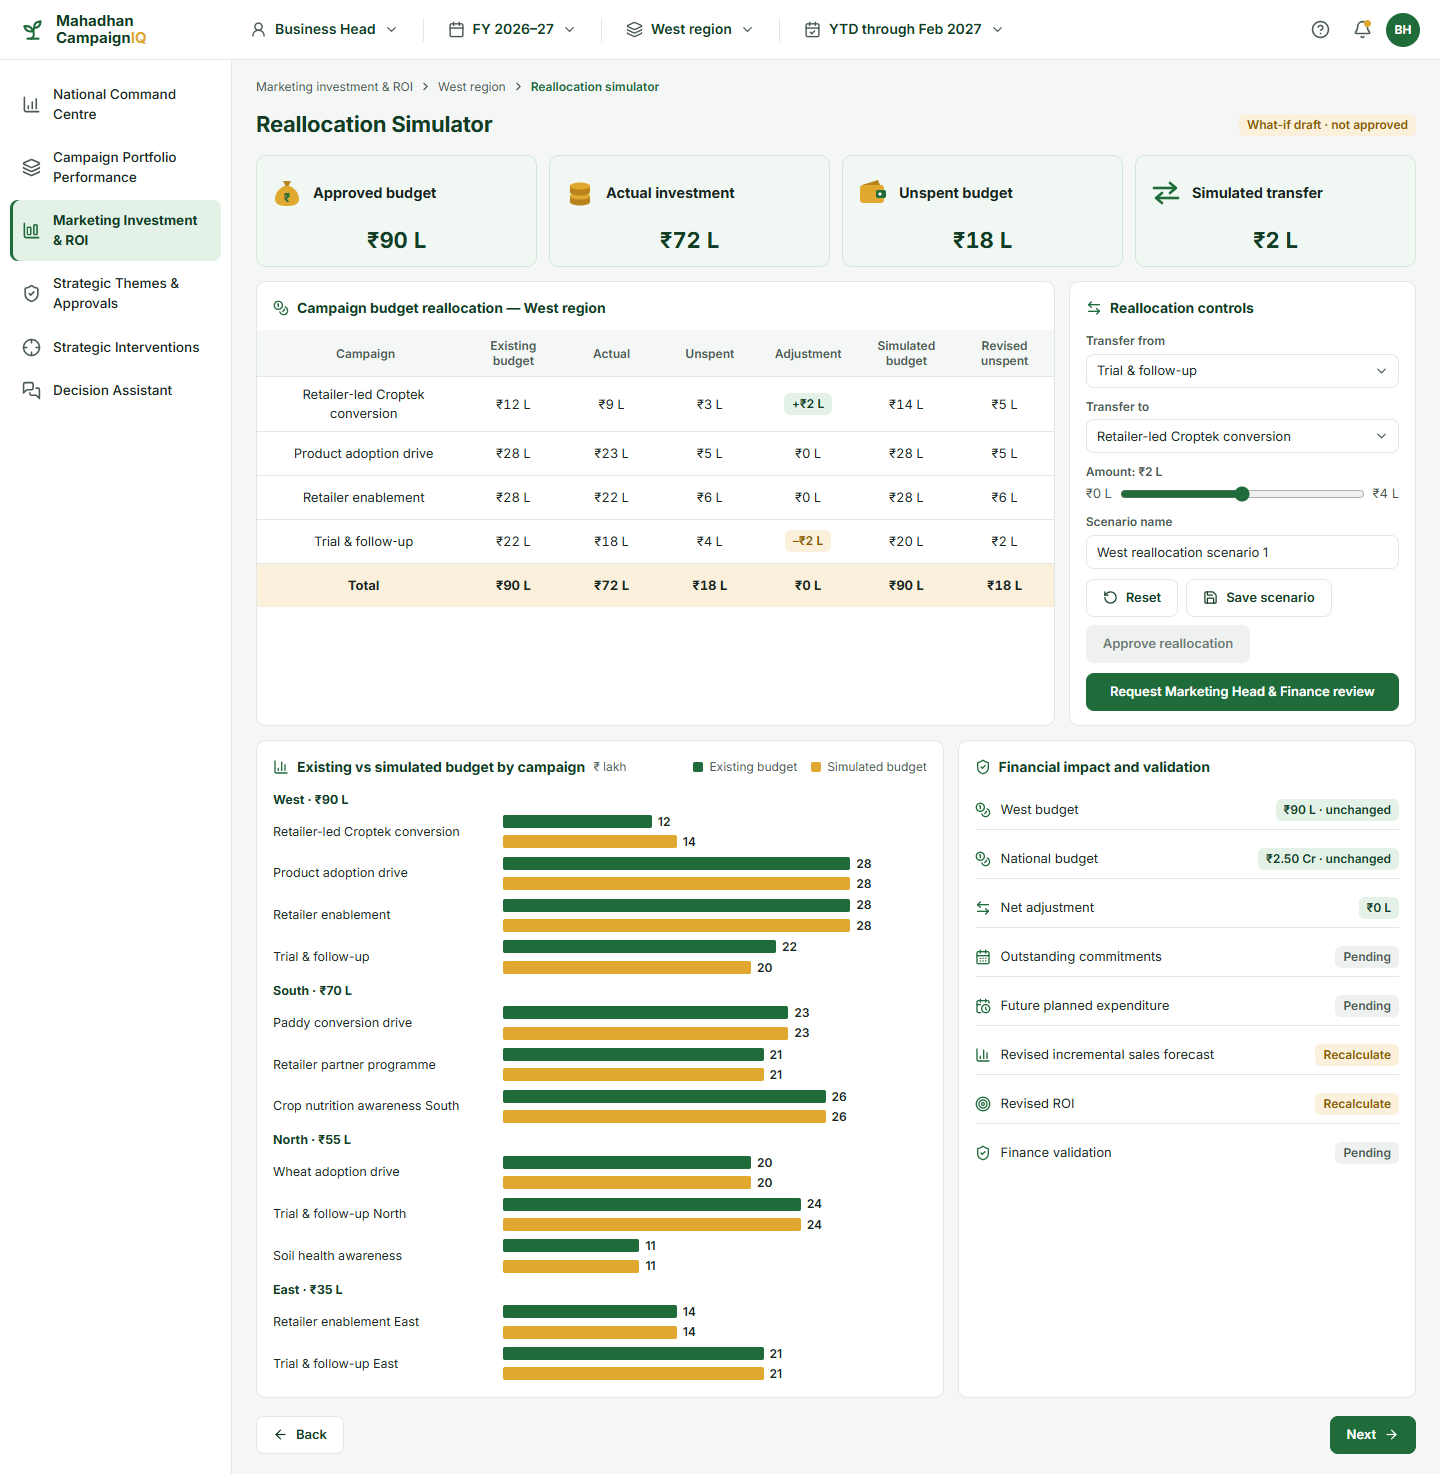
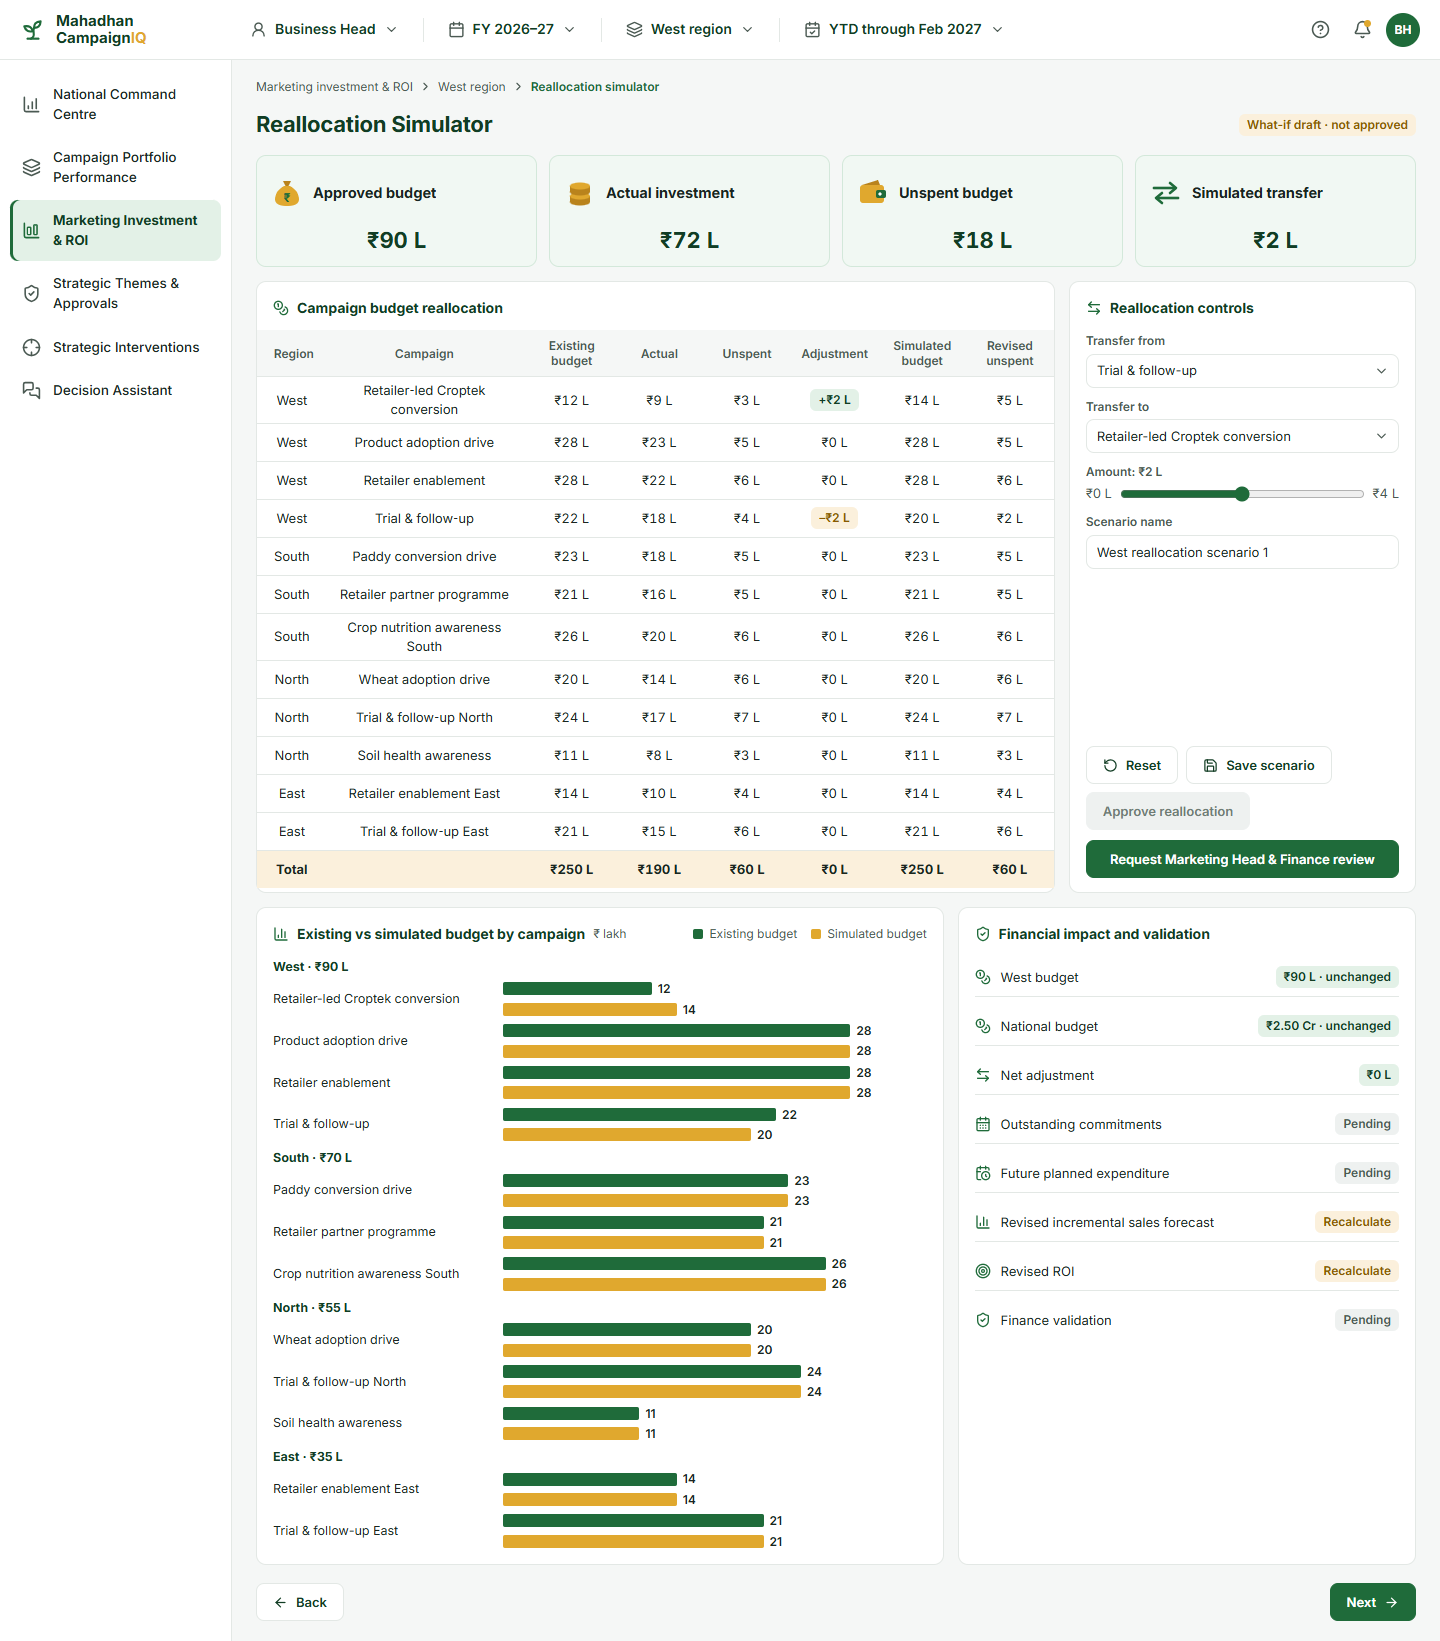
BH: reallocation table lists all campaigns

diff --git a/campaigniq-v3/src/screens/Investment.tsx b/campaigniq-v3/src/screens/Investment.tsx
@@ -337,6 +337,8 @@ export function Reallocation() {
   const rows = camps.map((c) => ({ c, adj: adjOf(c), revised: c.approved + adjOf(c), revisedUnspent: unspentOf(c) + adjOf(c) }));
   const t = { approved: sum(camps, (c) => c.approved), actual: sum(camps, (c) => c.actual), unspent: sum(camps, unspentOf) };
   const net = sum(rows, (x) => x.adj);
+  /** Table: every campaign, West first then South, North, East; adjustments only on the active scenario. */
+  const allRows = ALL_CAMPAIGNS.map((c) => ({ c, adj: adjOf(c), revised: c.approved + adjOf(c), revisedUnspent: unspentOf(c) + adjOf(c) }));
   const pickFrom = (id: string) => {
     const c = planCampaign(id);
     setFrom(id);
@@ -385,18 +387,19 @@ export function Reallocation() {
         <KpiCard label="Simulated transfer" value={lakh(valid ? amt : 0)} />
       </div>
       <div className="grid" style={{ gridTemplateColumns: 'minmax(0, 2.3fr) minmax(0, 1fr)' }}>
-        <Card className="realloc-card" title={`Campaign budget reallocation — ${r.name} region`} icon={Coins} flush>
-          <DataTable rows={rows} rowKey={(x) => x.c.id}
+        <Card className="realloc-card" title="Campaign budget reallocation" icon={Coins} flush>
+          <DataTable rows={allRows} rowKey={(x) => x.c.id}
             columns={[
+              { key: 'rg', header: 'Region', width: '8%', render: (x) => regionById(x.c.region).name },
               { key: 'n', header: 'Campaign', width: '26%', render: (x) => <span className="rc-name">{x.c.name.replace(/-/g, '‑')}</span> },
-              { key: 'ap', header: 'Existing budget', width: '12.33%', align: 'right', render: (x) => lakh(x.c.approved) },
-              { key: 'ac', header: 'Actual', width: '12.33%', align: 'right', render: (x) => lakh(x.c.actual) },
-              { key: 'un', header: 'Unspent', width: '12.33%', align: 'right', render: (x) => lakh(unspentOf(x.c)) },
-              { key: 'ad', header: 'Adjustment', width: '12.33%', align: 'center', render: (x) => adjChip(x.adj) },
-              { key: 'rb', header: 'Simulated budget', width: '12.33%', align: 'right', render: (x) => lakh(x.revised) },
-              { key: 'ru', header: 'Revised unspent', width: '12.33%', align: 'right', render: (x) => lakh(x.revisedUnspent) },
+              { key: 'ap', header: 'Existing budget', width: '11%', align: 'right', render: (x) => lakh(x.c.approved) },
+              { key: 'ac', header: 'Actual', width: '11%', align: 'right', render: (x) => lakh(x.c.actual) },
+              { key: 'un', header: 'Unspent', width: '11%', align: 'right', render: (x) => lakh(unspentOf(x.c)) },
+              { key: 'ad', header: 'Adjustment', width: '11%', align: 'center', render: (x) => adjChip(x.adj) },
+              { key: 'rb', header: 'Simulated budget', width: '11%', align: 'right', render: (x) => lakh(x.revised) },
+              { key: 'ru', header: 'Revised unspent', width: '11%', align: 'right', render: (x) => lakh(x.revisedUnspent) },
             ]}
-            total={{ n: 'Total', ap: lakh(t.approved), ac: lakh(t.actual), un: lakh(t.unspent), ad: lakh(net), rb: lakh(sum(rows, (x) => x.revised)), ru: lakh(sum(rows, (x) => x.revisedUnspent)) }}
+            total={{ rg: 'Total', ap: lakh(sum(allRows, (x) => x.c.approved)), ac: lakh(sum(allRows, (x) => x.c.actual)), un: lakh(sum(allRows, (x) => unspentOf(x.c))), ad: lakh(sum(allRows, (x) => x.adj)), rb: lakh(sum(allRows, (x) => x.revised)), ru: lakh(sum(allRows, (x) => x.revisedUnspent)) }}
           />
         </Card>
         <Card title="Reallocation controls" icon={ArrowLeftRight}>

diff --git a/campaigniq-v3/src/styles.css b/campaigniq-v3/src/styles.css
@@ -208,6 +208,6 @@ textarea.input { height: auto; min-height: 60px; padding: 8px 10px; resize: vert
 .realloc-card .tbl { width: 100%; table-layout: fixed; }
 .realloc-card .tbl th, .realloc-card .tbl td { hyphens: none; word-break: normal; overflow-wrap: normal; }
 .realloc-card .tbl th { white-space: normal; padding-left: 6px; padding-right: 6px; }
-.realloc-card .tbl td { height: 44px; }
+.realloc-card .tbl td { height: 38px; padding-top: 4px; padding-bottom: 4px; }
 .realloc-card .tbl th:first-child, .realloc-card .tbl td:first-child { padding-left: 16px; }
 .realloc-card .rc-name { display: -webkit-box; -webkit-line-clamp: 2; -webkit-box-orient: vertical; overflow: hidden; }
